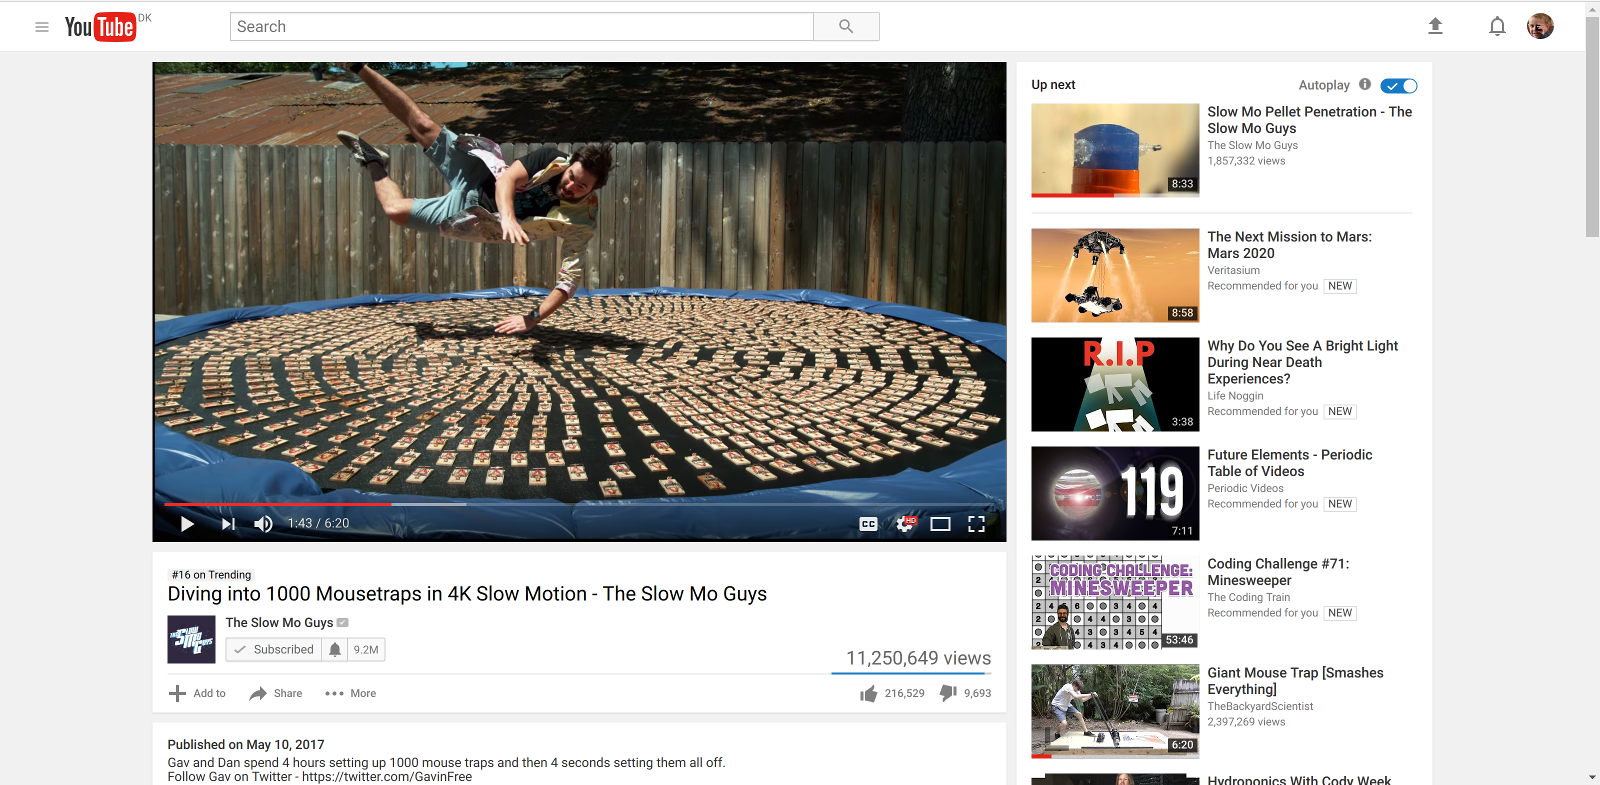
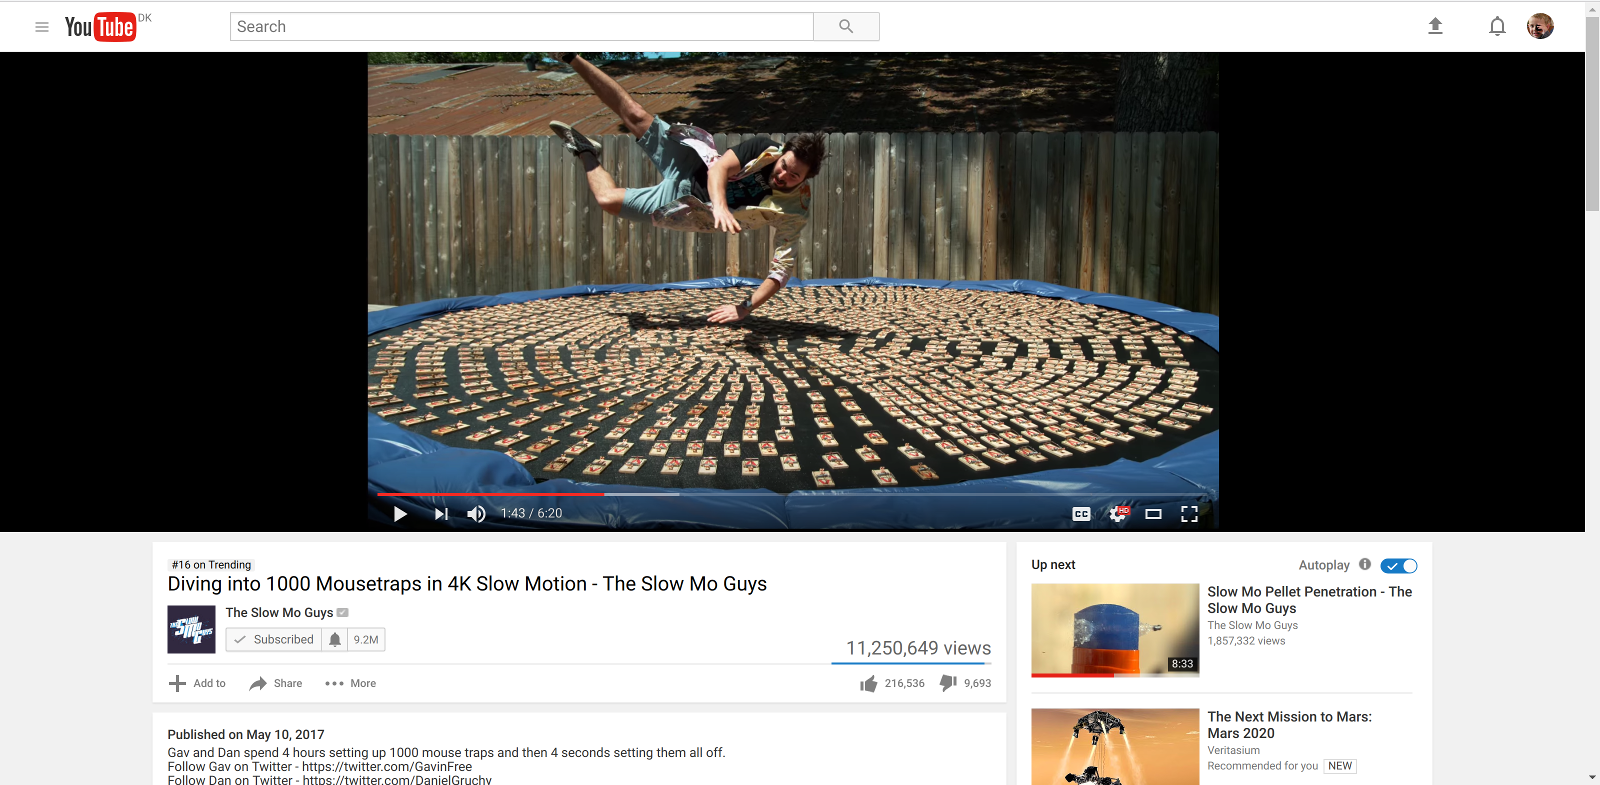
Updated readme
And fixed image

diff --git a/README.md b/README.md
@@ -10,3 +10,13 @@ Some TamperMonkey Scripts I've Made
 Focus mode, will hide the background, when 'Hide the menus' is pressed. [Link to script](https://greasyfork.org/da/scripts/29790-gdocs-focus-mode)
 
 ![Example](https://github.com/viktorstrate/TamperMonkeyScripts/blob/master/assets/gdocs-focusmode.gif?raw=true)
+
+## Youtube Bigger Theater
+
+> Make 'Theater View' on Youtube videos fill the screen.
+
+The theater view in Youtube videos, will fill 100% of the screen width and height. [Link to script](https://greasyfork.org/en/scripts/29854-youtube-bigger-theater)
+
+| Before                                   | After                                    |
+| ---------------------------------------- | ---------------------------------------- |
+| ![Before](https://github.com/viktorstrate/TamperMonkeyScripts/blob/master/assets/yt-theater-disabled.png?raw=true) | ![After](https://github.com/viktorstrate/TamperMonkeyScripts/blob/master/assets/yt-theater-enabled.png?raw=true) |
